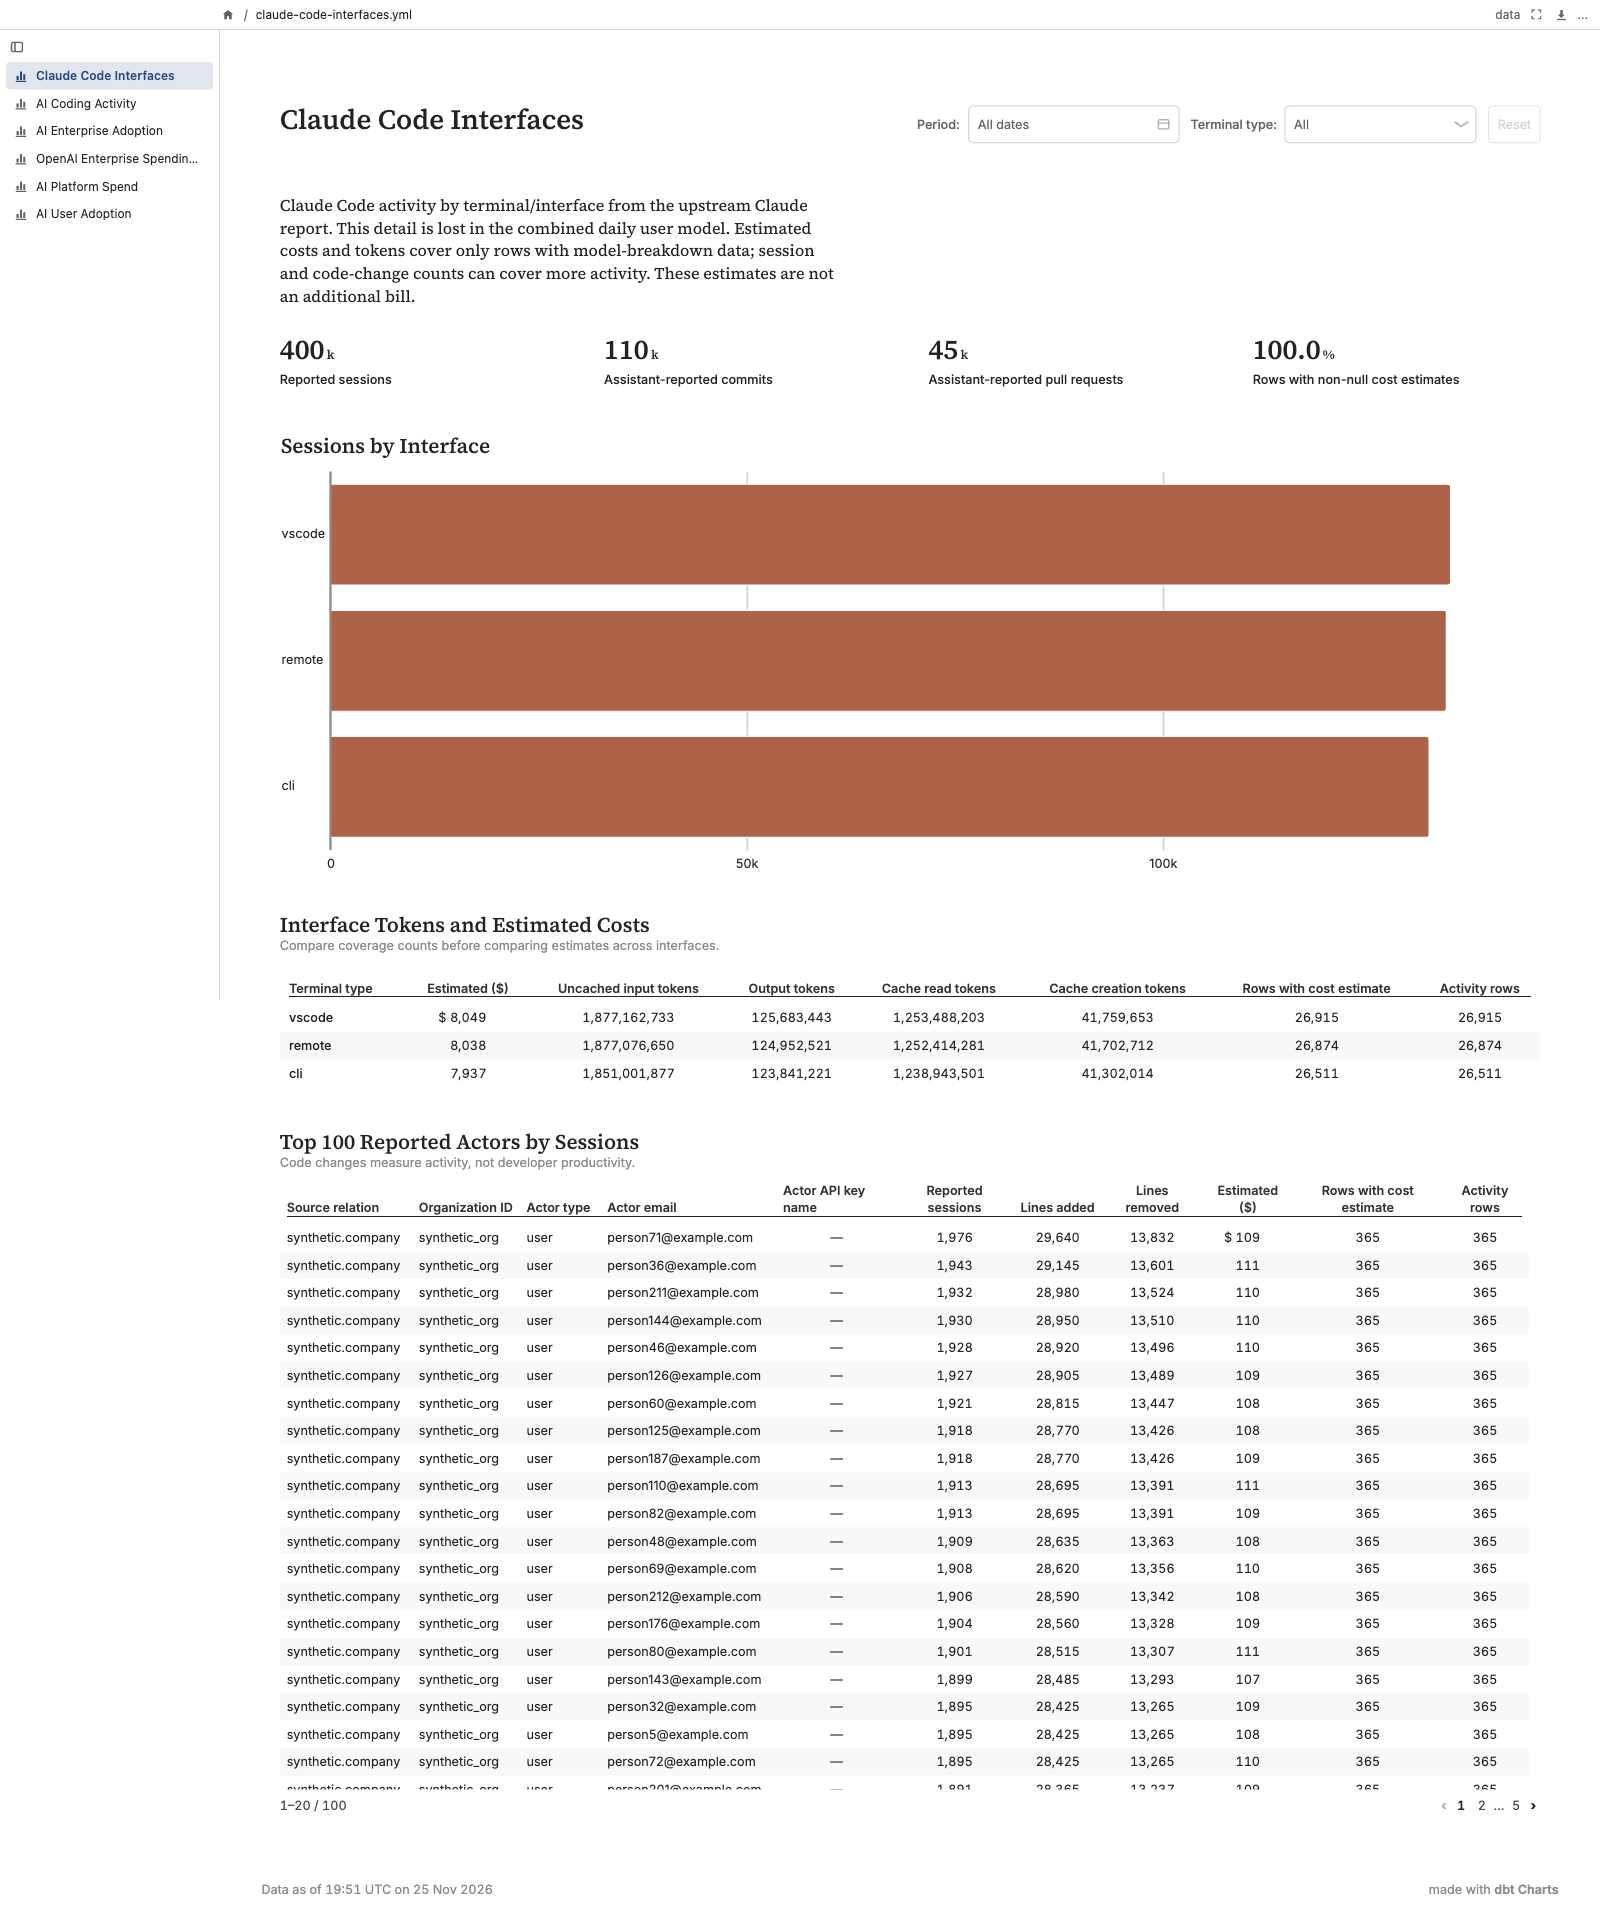
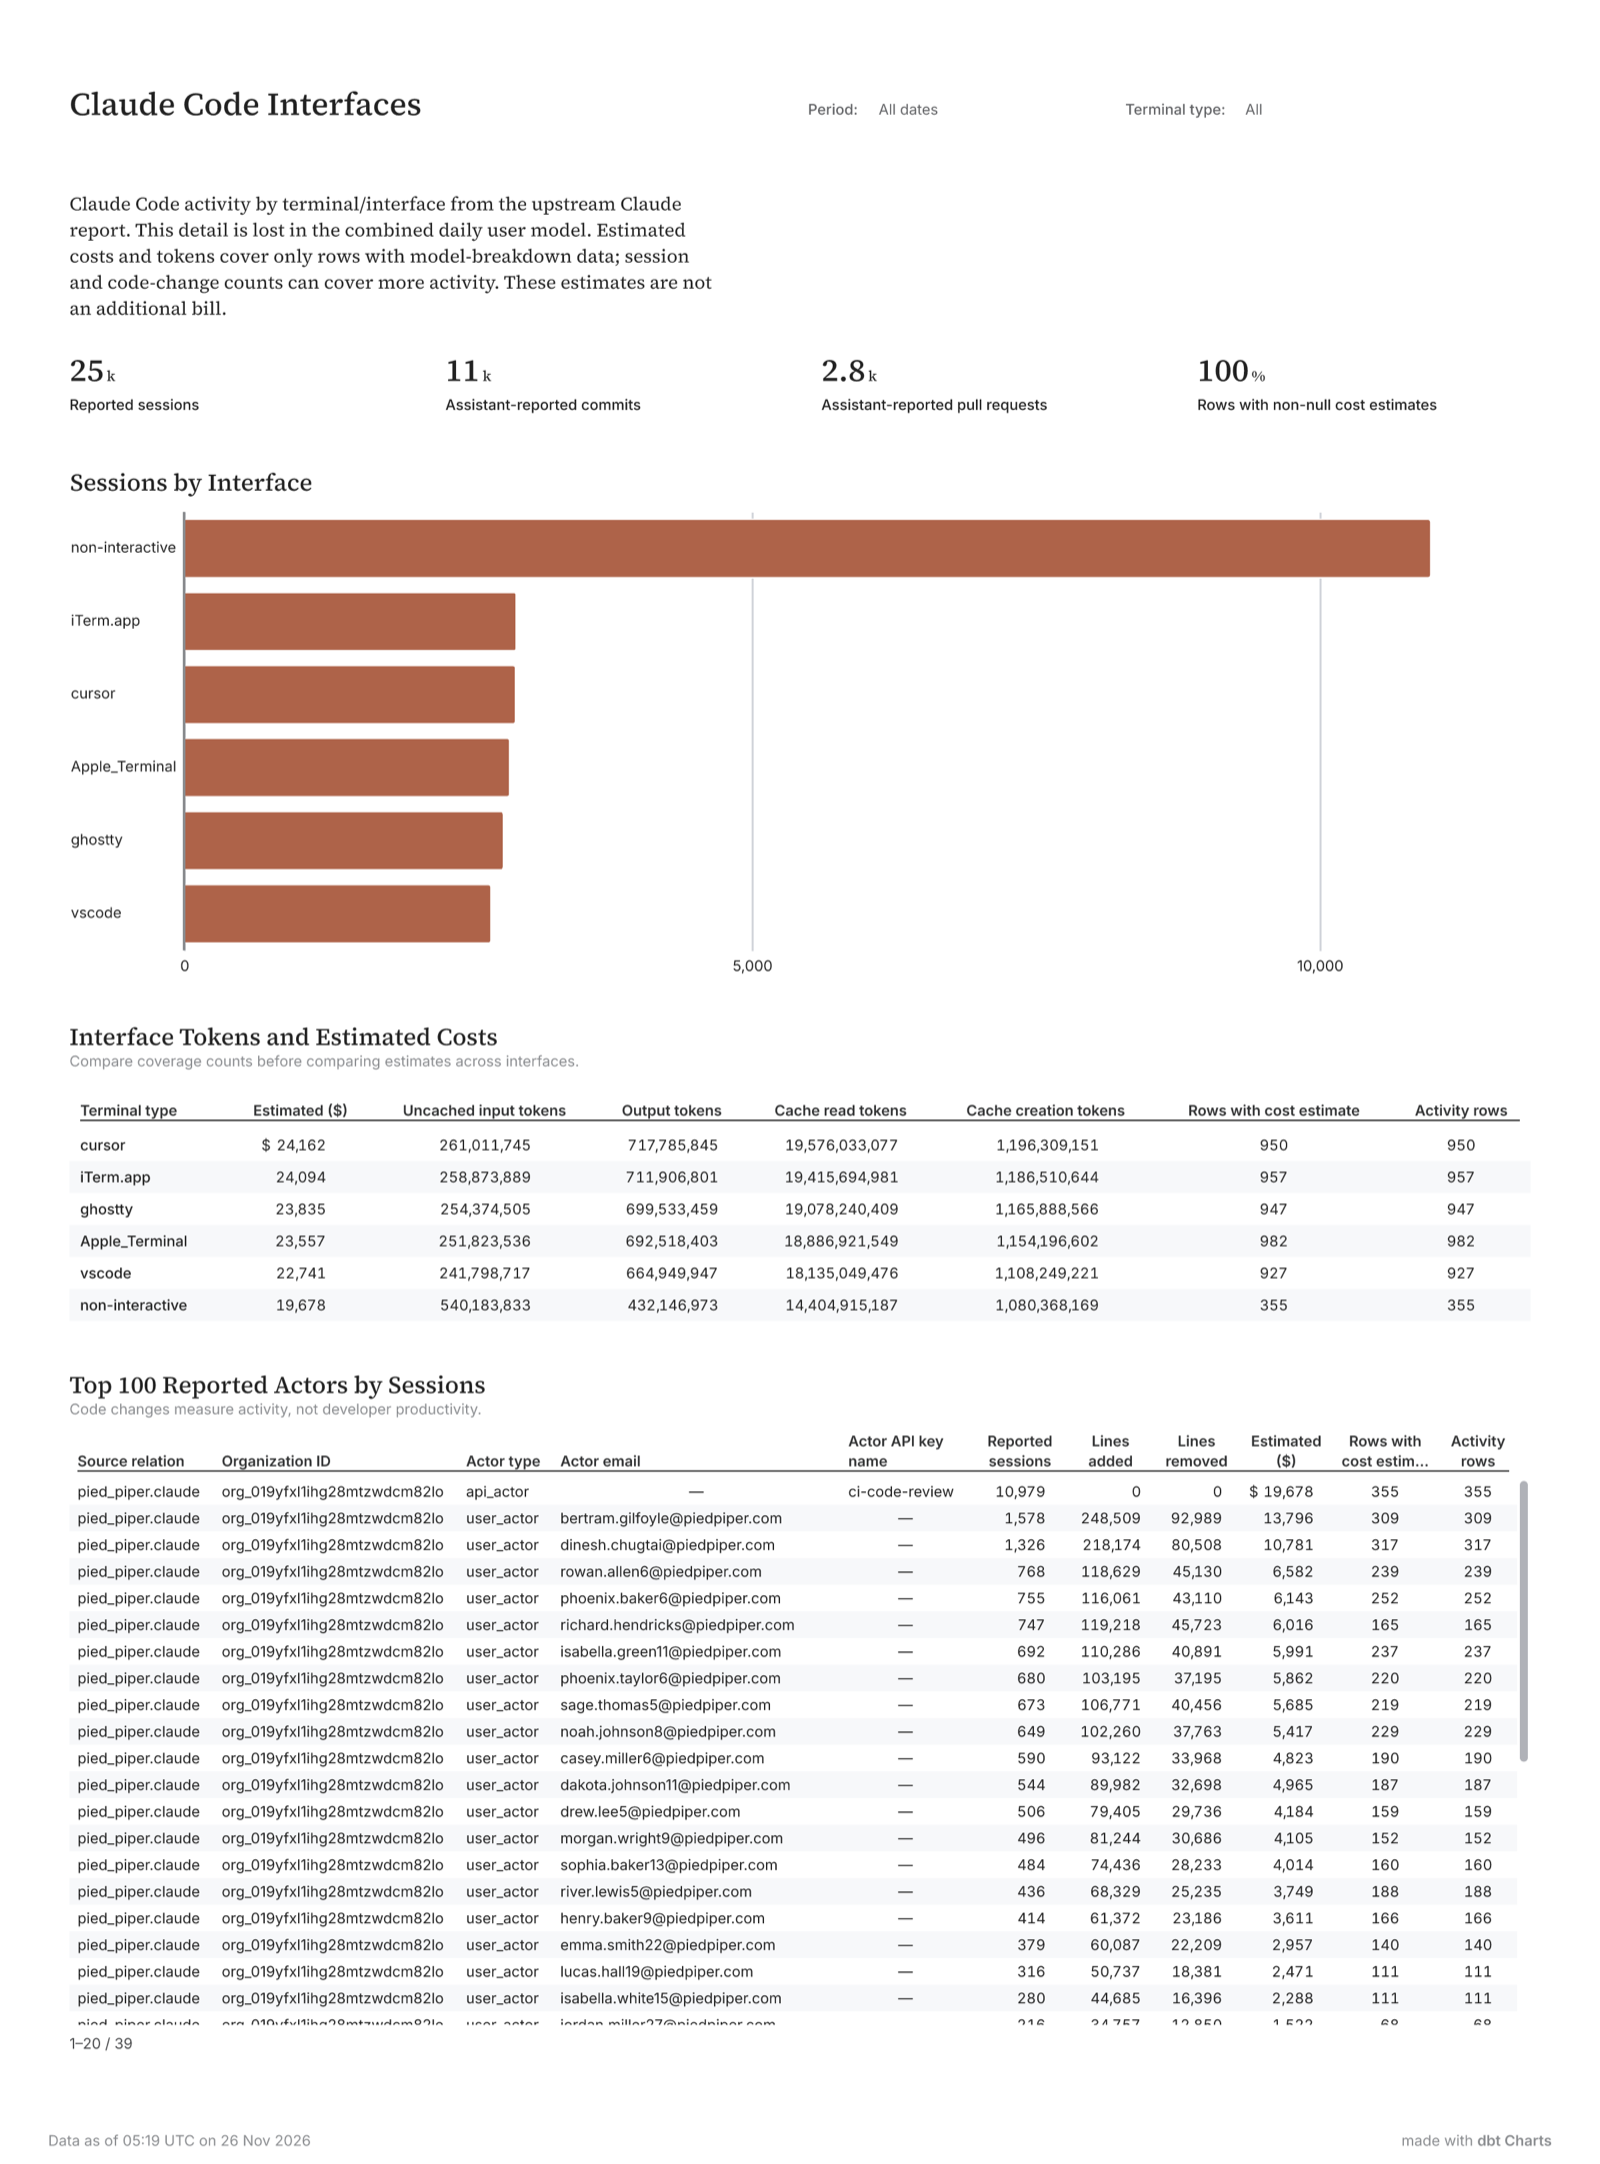
Fix starter boards on a full year of realistic data
Rendering every board on a year of Pied Piper connector data surfaced
problems the sparse seeds hide:

- Spend failed to render with 12 model families: name-pinned colors only
  covered six. Families now fold into stable vendor groups (Claude Sonnet,
  Opus, Haiku, Other Claude; GPT-5.x, GPT-4.x, OpenAI embeddings, Other
  OpenAI), each pinned warm for Claude and cool for OpenAI.
- Model IDs read as vendor names (Claude Sonnet 4.5, GPT-5.2) on spend and
  enterprise adoption; dated snapshots share their model's label.
- Credits round to whole numbers and quantities to two decimals, removing
  float noise like 285,463.732991.
- Coverage KPIs show whole percents.
- Previews are re-rendered from the Pied Piper data.

diff --git a/STARTER_BOARDS.md b/STARTER_BOARDS.md
@@ -111,9 +111,11 @@ dct render charts/*.yml --dbt-project-dir integration_tests --format png
 
 Set `DBT_PROFILES_DIR` to your local profiles directory if needed. Use a date
 range that includes your test data when exercising filters. The integration
-seeds exercise model contracts; the previews below use a separate fictional
-year of activity for 300 people, including weekday patterns and both vendors.
-They do not represent customer or Fivetran usage, spend, or vendor list prices.
+seeds exercise model contracts; the previews below use
+a fictional company, Pied Piper,: a year
+of Claude and OpenAI connector data for about 100 people, with weekday patterns,
+a staged rollout, and both vendors. They do not represent customer or Fivetran
+usage, spend, or vendor list prices.
 
 ## Sample previews
 
